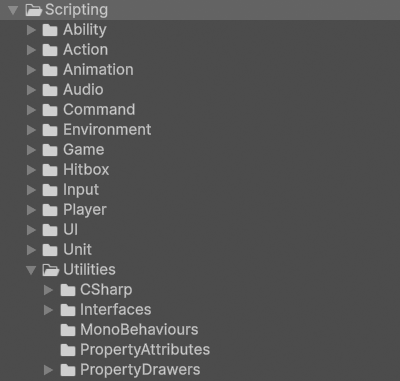
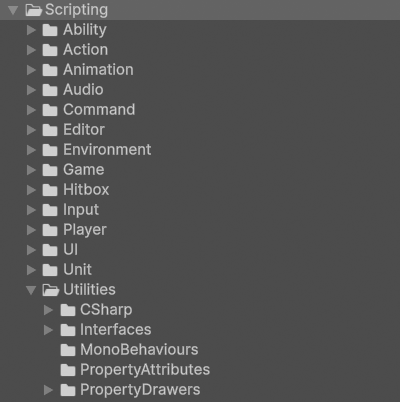
Added Automatic setup

diff --git a/docs/unity-editor.md b/docs/unity-editor.md
@@ -4,6 +4,23 @@
 
     This page describes how the Unity environment is organized for the template. It can help you navigate through the project’s files or bring up details you may want to consider when organizing your own game.
 
+## Automatic setup
+
+This package includes automatic setup features to ensure a smooth experience when importing into a Unity project. These scripts are located at `BeatEmUpTemplate/Assets/Scripting/Editor`.
+
+<figure markdown="span">
+    ![project_window.png](assets/images/automatic_setup.png)
+</figure>
+
+Once the import is detected `AutoSetupManager.cs` runs all setup tasks in sequence:
+
+1. Configures the Input System (`InputSystemSetup.cs`)
+2. Sets up URP assets (`URPAutoSetup.cs`)
+3. Opens the Initialization scene (`InitializationSceneOpener.cs`)
+4. Shows the Welcome screen (`WelcomeScreen.cs`)
+
+You can also manually run the setup by selecting `Window > Arcabidi > 2.5D Beat 'Em Up Template > Run Auto Setup`. See `AutoSetupGuide.txt` for more information.
+
 ## Project window
 
 <figure markdown="span">
@@ -30,8 +47,6 @@ The [Project window](https://docs.unity3d.com/Manual/ProjectView.html) is locate
 | `Scenes`            | Contains all non-code files related to scenes. See the [Scenes](scenes.md) page for more information. |
 | `UI`            | Contains all non-code files related to UI. See the [UI](systems/ui.md#ui-folder) page for more information.|
 | `Licenses`            | Contains all licenses associated with any third party assets used in the package. `Third-Party Notices.txt` details which asset uses which license. |
-| `Packages`            | Contains a`manifest.json` file that lists all package dependencies in the 2.5D Beat 'Em Up Template for reference. |
-| `ProjectSettings`            | Contains all [project settings](https://docs.unity3d.com/Manual/comp-ManagerGroup.html) for the 2.5D Beat 'Em Up Template:<br><br>`DynamicsManager` configures [physics collision matrices](https://docs.unity3d.com/Manual/LayerBasedCollision.html).<br>`EditorBuildSettings` sets the [scene list](https://docs.unity3d.com/6000.0/Documentation/Manual/build-profile-scene-list.html). <br>`GraphicsSettings` sets the [default render pipeline](https://docs.unity3d.com/Manual/class-GraphicsSettings.html#:~:text=Always%2Dincluded%20Shaders-,Set%20Default%20Render%20Pipeline%20Asset,-Use%20the%20Default).<br>`ProjectSettings` sets general project settings.<br>`QualitySettings` sets the [render pipeline asset](https://docs.unity3d.com/Manual/class-QualitySettings.html#:~:text=Meshes-,Rendering,-Property).<br>`TagManager` defines [tags and layers](https://docs.unity3d.com/Manual/class-TagManager.html).<br><br>It is recommended to import this package to a clean Unity project to prevent overwriting any existing project settings. After creating one, copy these files to the `[Your Project]/ProjectSettings` folder to overwrite the default project settings. |
 
 ## Hierarchy window
 

diff --git a/docs/index.md b/docs/index.md
@@ -36,15 +36,15 @@ This package combines 2D visuals with 3D depth to add a modern feel to the class
 - [__Systems__](systems/index.md)<br>deep dive into the systems that power the template
 </div>
 
-## Required packages
+## Package dependencies
 
 !!! Info
 
     This template only uses official packages made by Unity.
 
-* [Input System](https://docs.unity3d.com/Packages/com.unity.inputsystem@1.11/manual/index.html) (For player input. Installed by default in Unity 6.)
-* [UI Toolkit](https://docs.unity3d.com/6000.0/Documentation/Manual/UIElements.html) (For creating UI. Installed by default in Unity 6.)
-* [Addressables](https://docs.unity3d.com/Packages/com.unity.addressables@2.3/manual/index.html) (For asset management. Install via `Windows > Package Manager`.)
+* [Addressables](https://docs.unity3d.com/Packages/com.unity.addressables@2.4/manual/index.html) (For asset management)
+* [Input System](https://docs.unity3d.com/Packages/com.unity.inputsystem@1.14/manual/index.html) (For player input)
+* [Universal Render Pipeline](https://docs.unity3d.com/Packages/com.unity.render-pipelines.universal@17.3/api/index.html) (For rendering)
 
 ## Downloads
 
